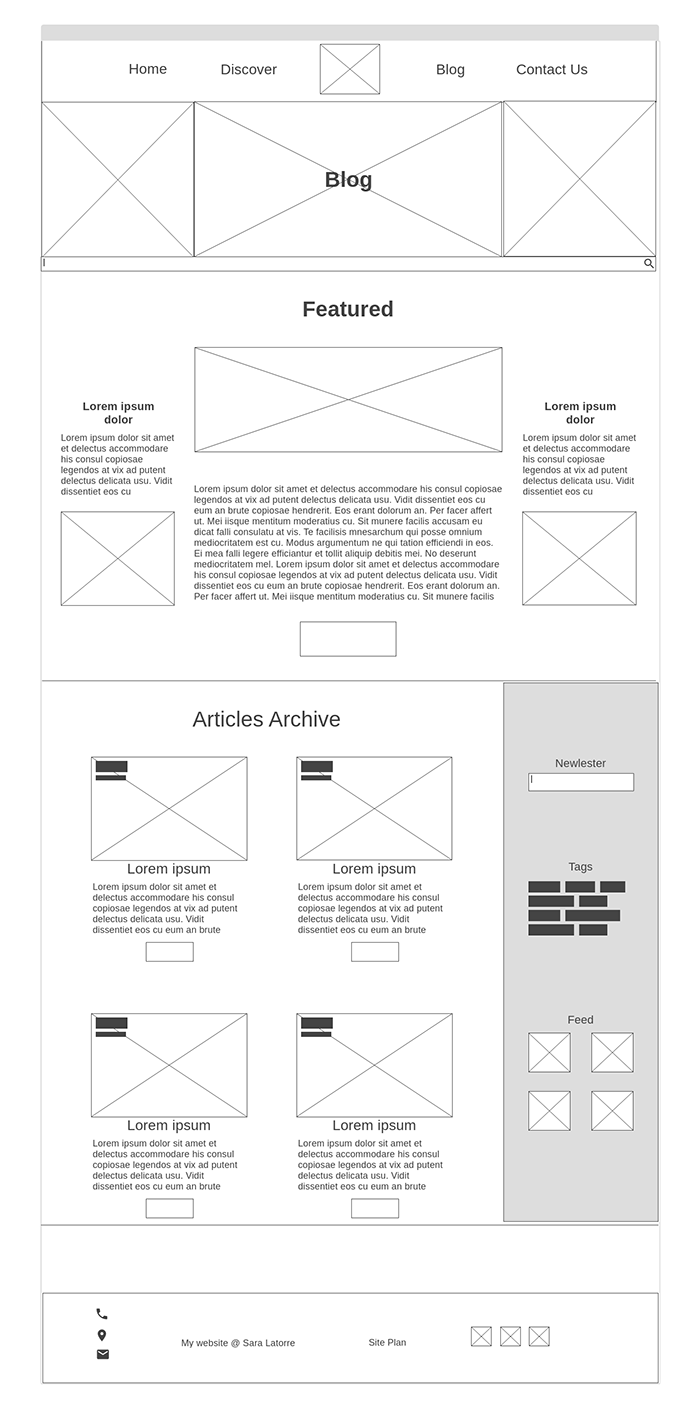
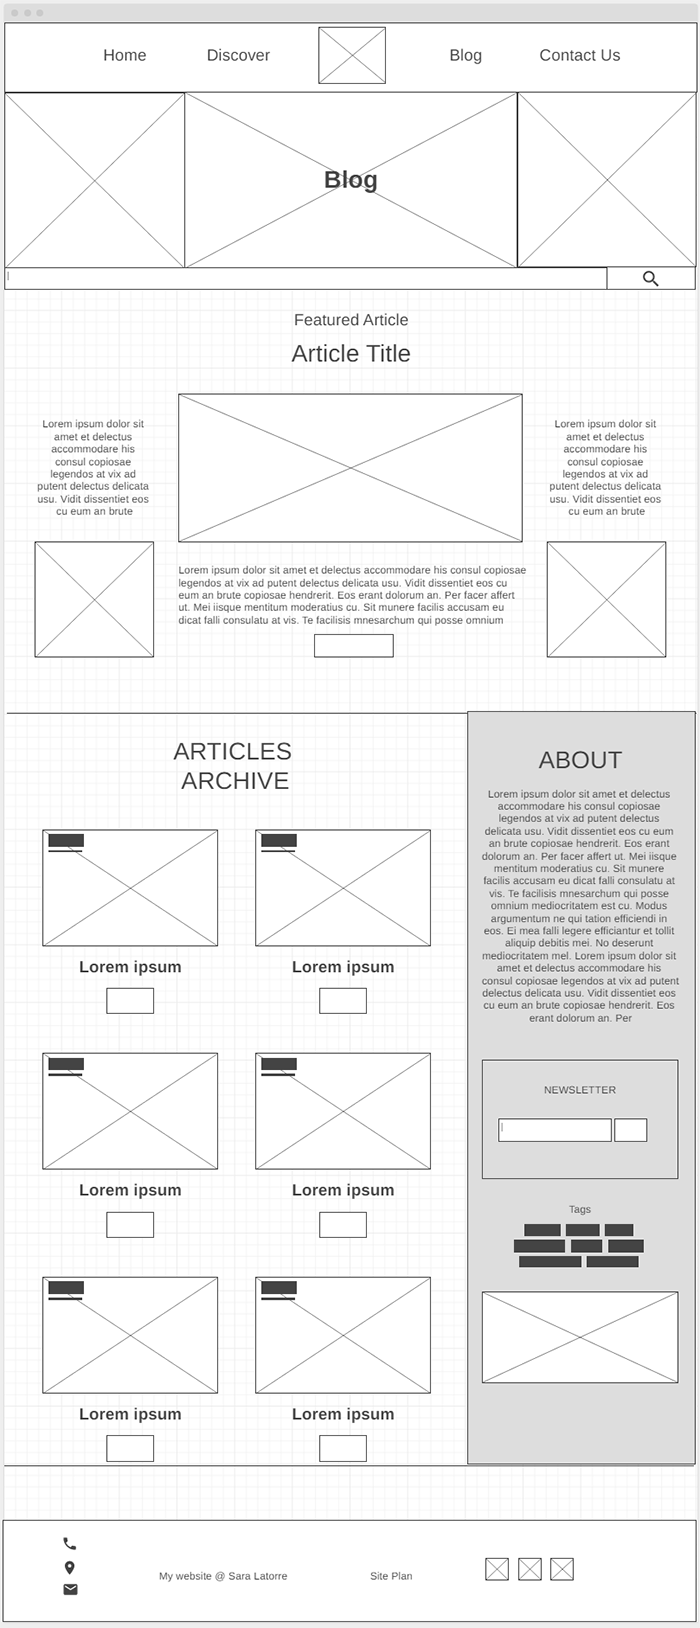
eculture blog footer updated

diff --git a/eculture/blog.html b/eculture/blog.html
@@ -21,7 +21,6 @@
                 <a class="nav_link" href="site-plan.html">Site Plan</a>               
             </nav> 
         </header>
-
         <main class="blog_content">
             <section class="hero_box">
                 <div class="blog_hero">
@@ -29,7 +28,6 @@
                     <img class="second_img"  src="images/street_art.jpg" alt="street art">
                     <img class="third_img"  src="images/street_artist.jpg" alt=" street artist painting a woman">
                     <h1 class="blog_title">Blog</h1>
-                    <!-- <p>Read about our latest projects, as well as our favorite artistic and cultural discoveries, including travel, history, museums, music, books, archives and gastronomy!</p> -->
                 </div>
             </section>
 
@@ -162,8 +160,6 @@
                     <button class="read_more" type="submit">Read</button>
                 </div>
 
-
-
                 <aside class="left_nav">
                     <section class="about">
                         <h2>About</h2>
@@ -197,22 +193,19 @@
                             <div class="text-block-insta">
                                 <p><i class="fa-brands fa-instagram"></i> Eculture_offical</p>
                             </div>
-                        </div>
-                        
-                        
+                        </div>                       
                     </div>
                 </aside>
             </div>
-
+            <button onclick="topFunction()" id="myBtn" title="Go to top">Top</button>
         </main>
-
-        <footer>   
+        <footer>    
             <div class="contact">
                 <ul>
-                    <li><i class="fa-solid fa-hashtag"> Get in contact</i></li>
-                    <li><a href="tel:+123-456-7890"><i class="fa-solid fa-phone">+123-456-7890</i></a></li>
-                    <li><a href="email:eculture@gmail.com"><i class="fa-solid fa-envelope"> eculture@gmail.com</i></a></li>
-                    <li><a href="#"><i class="fa-solid fa-location-dot"> 123 Anywhere St., Any City</i></a></li>
+                    <li><i class="fa-solid fa-hashtag"></i>Get in contact</li>
+                    <li><a href="tel:+123-456-7890"><i class="fa-solid fa-phone"></i>+123-456-7890</a></li>
+                    <li><a href="email:eculture@gmail.com"><i class="fa-solid fa-envelope"></i> eculture@gmail.com</a></li>
+                    <li><a href="#"><i class="fa-solid fa-location-dot"></i>123 Anywhere St., Any City</a></li>
                 </ul>
             </div>
             <p>Eculture &copy; 2022 - Sara Latorre</p>
@@ -232,6 +225,26 @@
             </div>
         </footer>
     </div>
-    
+    <script>
+        // Get the button:
+        let mybutton = document.getElementById("myBtn");
+
+        // When the user scrolls down 80px from the top of the document, show the button
+        window.onscroll = function() {scrollFunction()};
+
+        function scrollFunction() {
+        if (document.body.scrollTop > 80 || document.documentElement.scrollTop > 20) {
+            mybutton.style.display = "block";
+        } else {
+            mybutton.style.display = "none";
+        }
+        }
+
+        // When the user clicks on the button, scroll to the top of the document
+        function topFunction() {
+        document.body.scrollTop = 0; // For Safari
+        document.documentElement.scrollTop = 0; // For Chrome, Firefox, IE and Opera
+        }
+    </script>
 </body>
 </html>
